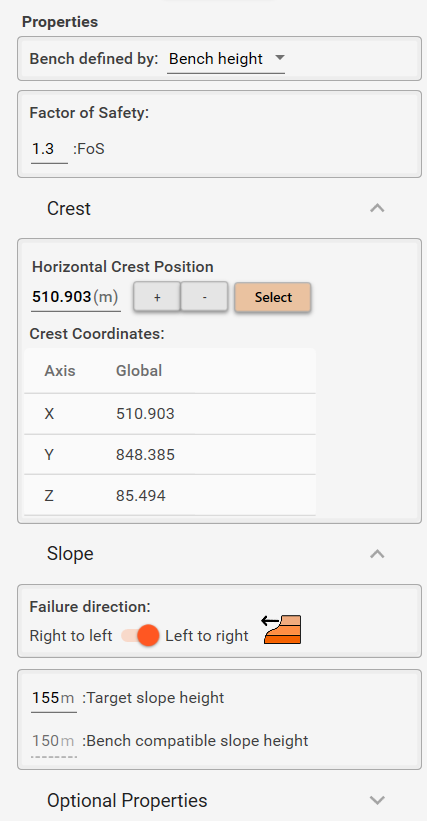
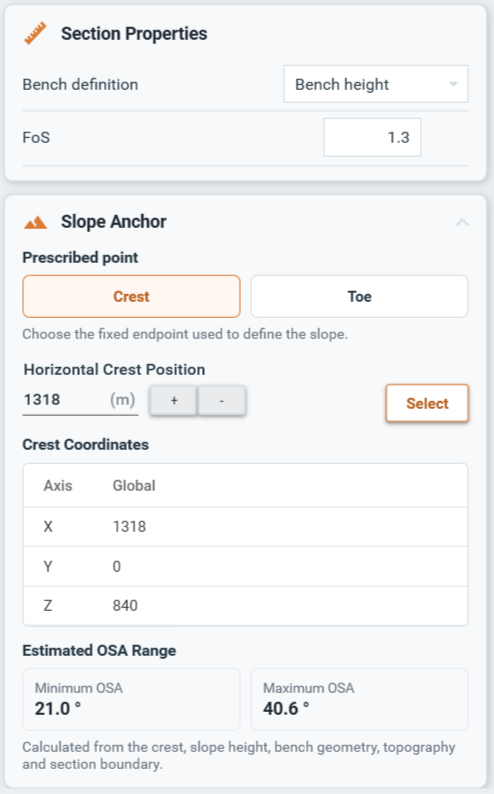
image updates

Changed region(s): [[0.0304, 0.0, 1.0, 0.9975], [0.7916, 0.1511, 0.822, 0.1814]]

diff --git a/_pages/Tutorials/Workflow.md b/_pages/Tutorials/Workflow.md
@@ -190,6 +190,32 @@ layout: post
   background: #0f1720;
 }
 
+.os-workflow-image-pair {
+  display: grid;
+  grid-template-columns: repeat(2, minmax(0, 1fr));
+  gap: 18px;
+  align-items: start;
+  margin: 22px 0;
+}
+
+.os-workflow-image-pair figure {
+  margin: 0;
+  text-align: center;
+}
+
+.os-workflow-image-pair img {
+  display: block;
+  width: 100%;
+  height: auto;
+}
+
+.os-workflow-image-pair figcaption {
+  margin-top: 9px;
+  color: var(--muted);
+  font-size: 13px;
+  line-height: 1.4;
+}
+
 .os-workflow-page p[align="center"] {
   margin: 22px 0;
 }
@@ -299,6 +325,10 @@ layout: post
   .os-workflow-step-body {
     padding: 20px;
   }
+
+  .os-workflow-image-pair {
+    grid-template-columns: 1fr;
+  }
 }
 </style>
 
@@ -399,9 +429,16 @@ Set general properties for the section:
 - **Target FoS (Factor of Safety)**.
 - **Failure Direction**: Select right-to-left or left-to-right slope generation.
 
-<p align="center">
-  <img src="https://OptimalSlope.github.io/manual/assets/tutorial/general_properties.png" alt="General properties"/>
-</p>
+<div class="os-workflow-image-pair">
+  <figure>
+    <img src="{{ '/assets/tutorial/general_properties.png' | relative_url }}" alt="Section properties and Crest slope-anchor settings"/>
+    <figcaption>Section properties and slope anchor</figcaption>
+  </figure>
+  <figure>
+    <img src="{{ '/assets/tutorial/general_properties_slope.png' | relative_url }}" alt="Failure direction and slope-geometry settings"/>
+    <figcaption>Failure direction and slope geometry</figcaption>
+  </figure>
+</div>
 
 The bench, rock, and general properties described above must be provided before running a simulation. The optional properties listed below can be added if required.
 
